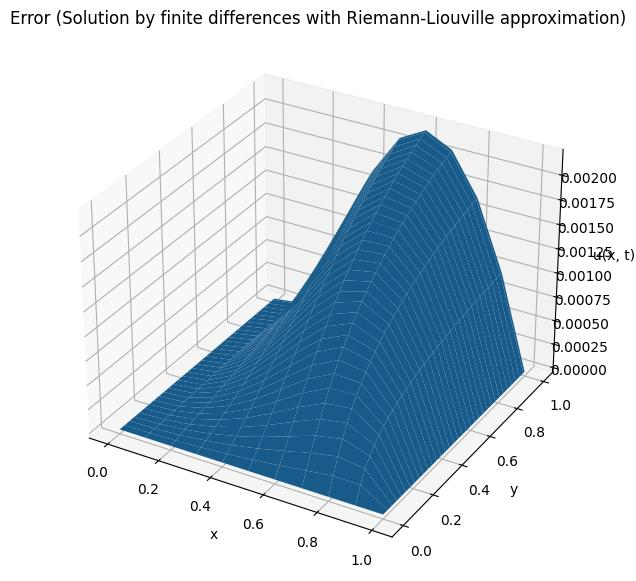
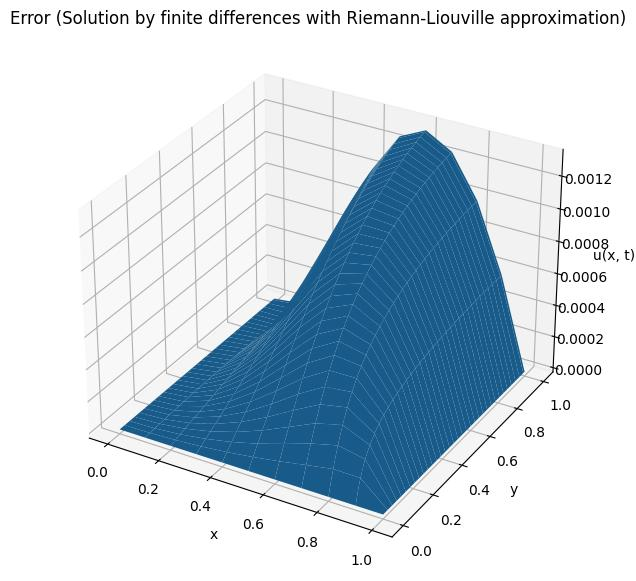
Update RL for time

diff --git a/libs/mfdes.cpp b/libs/mfdes.cpp
@@ -1,7 +1,7 @@
 #include <mfdes.hpp>
 
 namespace NEquationSolver {
-    double TMFDESRule::Fill(IEquationSolver const *const solver, usize i, usize j) {
+    double TMFDESRule::FillMatrix(IEquationSolver const *const solver, usize i, usize j) {
         const double spaceX = solver->Space(i);
         double result = 0.0;
 
@@ -28,7 +28,29 @@ namespace NEquationSolver {
         return result;
     }
 
-    double TRLFDESRule::CoefG(IEquationSolver const *const solver, usize k) {
+    // # Math: d_i^k = \sum_{j=1}^{k}{g_{\gamma, j}(u_i^{k-j} - u_i^0)} - (u_i^0 + \tau^\gamma f(x_i, t_j))
+    double TMFDESRule::FillDestination(IEquationSolver const *const solver, const NLinalg::TMatrix& result, usize i, usize k) {
+        const usize n = solver->GetConfig().SpaceCount;
+        const double time = solver->Time(k);
+
+        double d_i = 0.0;
+
+        d_i -= result[0][i];
+        d_i -= solver->PowTCGamma * solver->GetConfig().SourceFunction(solver->Space(i), time);
+
+        for (usize j = 1; j <= k; j++) {
+            d_i += solver->CoefGGamma(j) * (result[k-j][i] - result[0][i]);
+        }
+
+        return d_i;
+    }
+
+    /*
+        # Math: \theta_0 = \frac{1}{(2-\alpha)\Gamma(2-\alpha)2^{2-\alpha}}
+        # Math: \theta_1 = \theta_0 * (3^{2-\alpha}-2)
+        # Math: \theta_k = \theta_0 * ((2k+1)^{2-\alpha}-2(2k-1)^{2-\alpha}+(2k-3)^{2-\alpha})
+    */
+    double TRLFDESRule::CoefGMatrix(IEquationSolver const *const solver, usize k) {
         const double alpha = solver->GetConfig().Alpha;
         const double C0 = 1.0 / (NFunctions::Gamma(3.0 - alpha) * (std::pow(2.0, 2.0 - alpha)));
         
@@ -40,33 +62,33 @@ namespace NEquationSolver {
         return C0 * (std::pow(2.0 * k - 3.0, 2.0 - alpha) - 2.0 * std::pow(2.0 * k - 1.0, 2.0 - alpha) + std::pow(2.0 * k + 1.0, 2.0 - alpha));
     }
 
-    double TRLFDESRule::Fill(IEquationSolver const *const solver, usize i, usize j) {
+    double TRLFDESRule::FillMatrix(IEquationSolver const *const solver, usize i, usize j) {
         const double spaceX = solver->Space(i);
         const double n = solver->GetConfig().SpaceCount;
         double result = 0.0;
 
         if (i + 1 >= j) { // Left
             if (i + 1 == j) {
-                result += solver->CoefA(spaceX) * CoefG(solver, 0);
+                result += solver->CoefA(spaceX) * CoefGMatrix(solver, 0);
             } else if (j == 0 && i > 0) {
-                result -= solver->CoefA(spaceX) * CoefG(solver, i);
+                result -= solver->CoefA(spaceX) * CoefGMatrix(solver, i);
             } else {
-                result += solver->CoefA(spaceX) * (CoefG(solver, i - j + 1) - CoefG(solver, i - j));
+                result += solver->CoefA(spaceX) * (CoefGMatrix(solver, i - j + 1) - CoefGMatrix(solver, i - j));
             }
         }
 
         if (i <= j + 1) { // Right
             if (i == j + 1) {
-                result += solver->CoefB(spaceX) * CoefG(solver, 0);
+                result += solver->CoefB(spaceX) * CoefGMatrix(solver, 0);
             } else if (j == n && i < n) {
-                result -= solver->CoefB(spaceX) * CoefG(solver, n - j);
+                result -= solver->CoefB(spaceX) * CoefGMatrix(solver, n - j);
             } else {
-                result += solver->CoefB(spaceX) * (CoefG(solver, j - i + 1) - CoefG(solver, j - i));
+                result += solver->CoefB(spaceX) * (CoefGMatrix(solver, j - i + 1) - CoefGMatrix(solver, j - i));
             }
         }
 
         if (i == j) {
-            result -= 1.0;
+            result -= CoefGDestination(solver, 0);
         }
 
         if (i == j + 1) {
@@ -78,5 +100,36 @@ namespace NEquationSolver {
         }
 
         return result;
+    }
+
+    /*
+        # Math: \theta_0 = \frac{1}{(1-\alpha)\Gamma(1-\alpha)}
+        # Math: \theta_k = \theta_0 * (k^{1-\alpha} - (k-1)^{1-\alpha})
+    */
+    double TRLFDESRule::CoefGDestination(IEquationSolver const *const solver, usize k) {
+        const double gamma = solver->GetConfig().Gamma;
+        const double C0 = 1.0 / NFunctions::Gamma(2.0 - gamma);
+        
+        if (k == 0) {
+            return C0;
+        } 
+        
+        return C0 * (std::pow(k, 1.0 - gamma) - std::pow(k - 1.0, 1.0 - gamma));
+    }
+
+    double TRLFDESRule::FillDestination(IEquationSolver const *const solver, const NLinalg::TMatrix& result, usize i, usize k) {
+        const usize n = solver->GetConfig().SpaceCount;
+        const double time = solver->Time(k);
+
+        double d_i = 0.0;
+
+        d_i -= solver->PowTCGamma * solver->GetConfig().SourceFunction(solver->Space(i), time);
+
+        d_i -= CoefGDestination(solver, k) * result[0][i];
+        for (usize j = 1; j < k; j++) {
+            d_i += (CoefGDestination(solver, k-j+1) - CoefGDestination(solver, k-j)) * result[j][i];
+        }
+
+        return d_i;
     }
 }

diff --git a/libs/mfdes.hpp b/libs/mfdes.hpp
@@ -6,23 +6,27 @@
 
 namespace NEquationSolver {
     template<class T>
-    concept TMatrixFillRuleConcept = requires (IEquationSolver const *const solver, usize i, usize j) {
+    concept TMatrixFillRuleConcept = requires (IEquationSolver const *const solver, const NLinalg::TMatrix& result, usize i, usize j) {
         requires !std::is_destructible_v<T>;
         requires !std::is_constructible_v<T>;
-        { T::Fill(solver, i, j) } -> std::convertible_to<double>;
+        { T::FillMatrix(solver, i, j) } -> std::convertible_to<double>;
+        { T::FillDestination(solver, result, i, j) } -> std::convertible_to<double>;
     };
 
     struct TMFDESRule {
         static constexpr std::string Name() { return "Grunwald-Letnikov approximation"; }; 
-        static double Fill(IEquationSolver const *const solver, usize i, usize j);
+        static double FillMatrix(IEquationSolver const *const solver, usize i, usize j);
+        static double FillDestination(IEquationSolver const *const solver, const NLinalg::TMatrix& result, usize i, usize k);
         TMFDESRule() = delete;
         ~TMFDESRule() = delete;
     };
 
     struct TRLFDESRule {
         static constexpr std::string Name() { return "Riemann-Liouville approximation"; };
-        static double Fill(IEquationSolver const *const solver, usize i, usize j);
-        static double CoefG(IEquationSolver const *const solver, usize k);
+        static double FillMatrix(IEquationSolver const *const solver, usize i, usize j);
+        static double FillDestination(IEquationSolver const *const solver, const NLinalg::TMatrix& result, usize i, usize k);
+        static double CoefGMatrix(IEquationSolver const *const solver, usize k);
+        static double CoefGDestination(IEquationSolver const *const solver, usize k);
         TRLFDESRule() = delete;
         ~TRLFDESRule() = delete;
     };
@@ -77,6 +81,7 @@ namespace NEquationSolver {
 
             NLinalg::TMatrix result(k + 1, n + 1, 0.0);
             
+            // # Math: u_i^0=\psi(x_i)
             for (usize i = 0; i <= n; i++) {
                 result[0][i] = Config.ZeroTimeState(Space(i));
             }
@@ -86,6 +91,7 @@ namespace NEquationSolver {
 
             auto plu = A.LUFactorizing();
             
+            // # Math: Au^k=d^k
             for (usize t = 1; t <= k; t++) {
                 // create d-vector
                 std::vector<double> d(n + 1, 0.0);
@@ -116,7 +122,7 @@ namespace NEquationSolver {
             // create matrix A
             for (usize i = 0; i <= n; i++) {
                 for (usize j = 0; j <= n; j++) {
-                    A[i][j] = TFiller::Fill(this, i, j);
+                    A[i][j] = TFiller::FillMatrix(this, i, j);
                 }
             }
 
@@ -130,23 +136,15 @@ namespace NEquationSolver {
             }
         }
 
-        void FillDestination(std::vector<double>& d, const NLinalg::TMatrix& result, const usize t) {
+        void FillDestination(std::vector<double>& d, const NLinalg::TMatrix& result, const usize k) {
             const usize n = Config.SpaceCount;
-            const double coef = PowTCGamma;
-            const double time = Time(t);
+            const double time = Time(k);
 
             for (usize i = 0; i <= n; i++) {
-                d[i] -= result[0][i];
-                d[i] -= coef * Config.SourceFunction(Space(i), time);
+                d[i] = TFiller::FillDestination(this, result, i, k);
             }
 
-            for (usize j = 1; j <= t; j++) {
-                for (usize i = 0; i <= n; i++) {
-                    d[i] += CoefGGamma(j) * (result[t-j][i] - result[0][i]);
-                }
-            }
-
-            //// borders
+            // borders
             if (Config.BordersAvailable) {
                 d[0] = Config.LeftBoundState(time);
                 d[n] = Config.RightBoundState(time);

diff --git a/libs/equation_solver.hpp b/libs/equation_solver.hpp
@@ -48,13 +48,14 @@ namespace NEquationSolver {
         TSolverConfig Config;
         std::vector<double> GAlpha;
         std::vector<double> GGamma;
-        double PowTCGamma, PowSCAlpha;
 
     private:
 
         void PrefetchCoefficients();
 
     public:
+
+        double PowTCGamma, PowSCAlpha;
 
         struct TResult {
             std::string MethodName;
